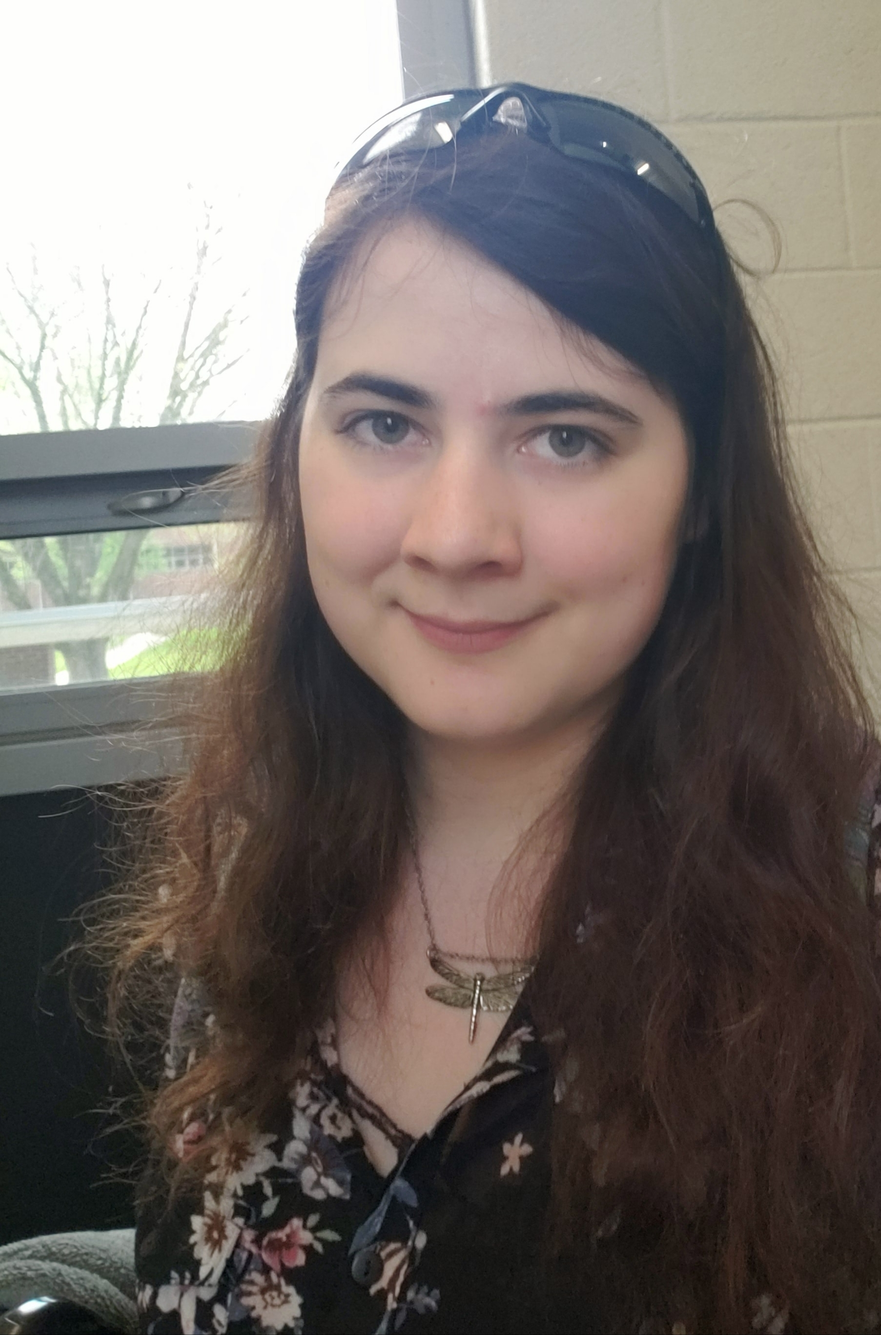
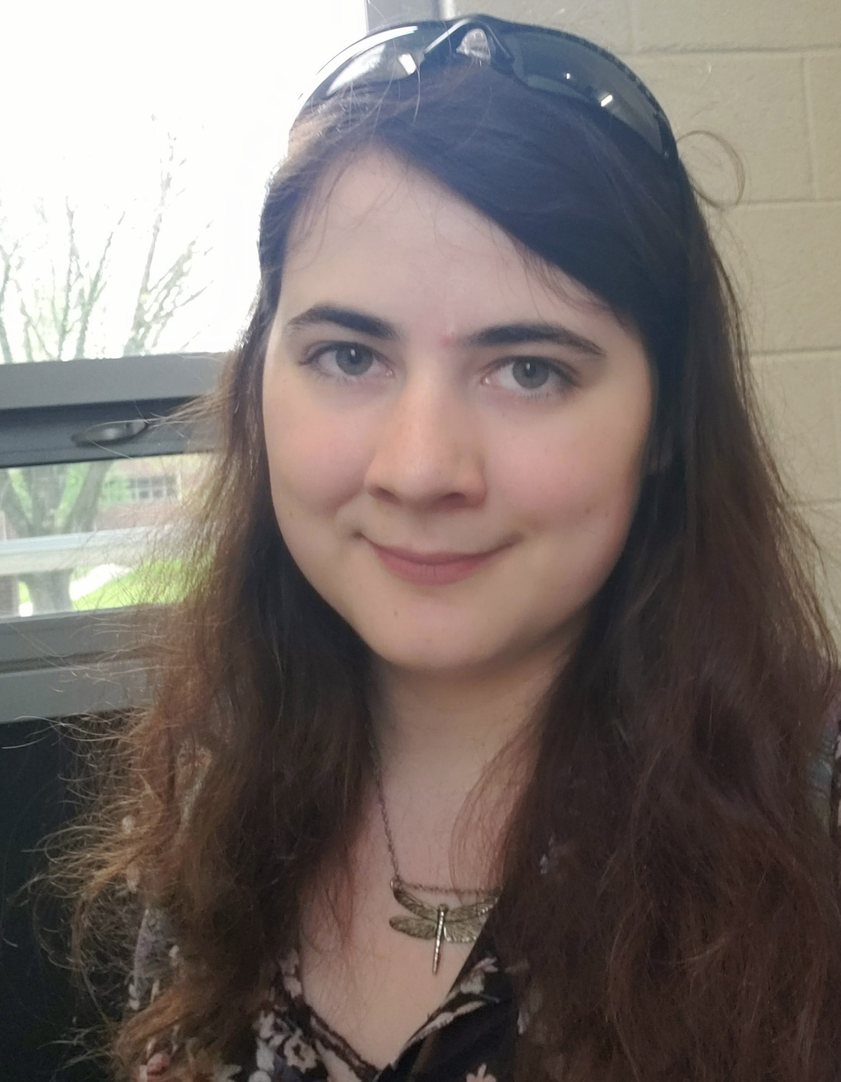
fixed image, added LinkedIn

diff --git a/group.html b/group.html
@@ -145,10 +145,7 @@
           <b>Tel.: </b><br>
           <b>Email: </b><a href="mailto:">bsmith24 at buffalo.edu</a><br>
           <b>Profiles:</b>
-            <a target="_blank" href="">LinkedIn</a>
-            | <a target="_blank" href="">ResearcherID</a>
-            | <a target="_blank" href="">ResearchGate</a>
-            | <a target="_blank" href="">GoogleScholar</a>
+            <a target="_blank" href="https://www.linkedin.com/in/story-temen-100244197/">LinkedIn</a>
           <br>
 
         </div> <!-- Profile -->
@@ -232,7 +229,7 @@
         <!-- Photo and name -->
         <div class="col-4">
           <h3>Ms. Story Temen</h3>
-          <img style="width: 200px; height: 350px;" title="Story Temen" alt="Story Temen" src="group/Story_Temen.jpg">
+          <img style="width: 250px; height: 321px;" title="Story Temen" alt="Story Temen" src="group/Story_Temen.jpg">
         </div>
 
         <!-- Profile -->
@@ -245,6 +242,9 @@
 
           <b>Tel.: </b><br>
           <b>Email: </b><a href="mailto:">storytem at buffalo dot edu</a><br>
+          <b>Profiles:</b>
+            <a target="_blank" href="https://www.linkedin.com/in/story-temen-100244197/">LinkedIn</a>
+          <br>
 
         </div> <!-- Profile -->
       </div> <!-- row -->
